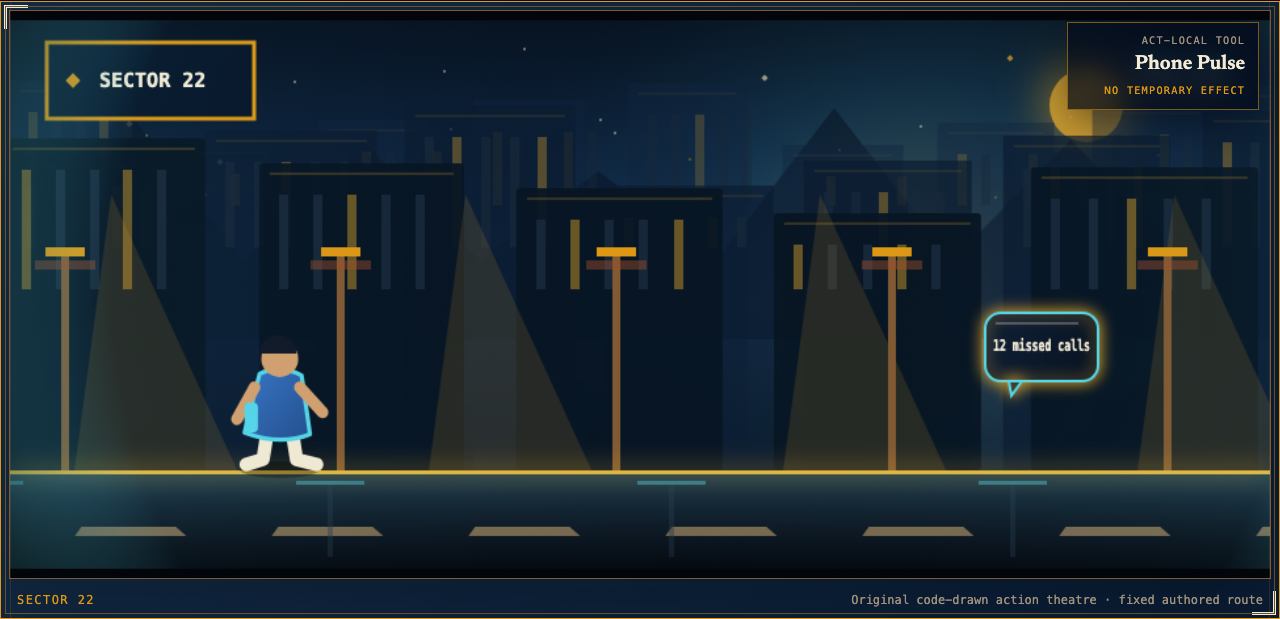
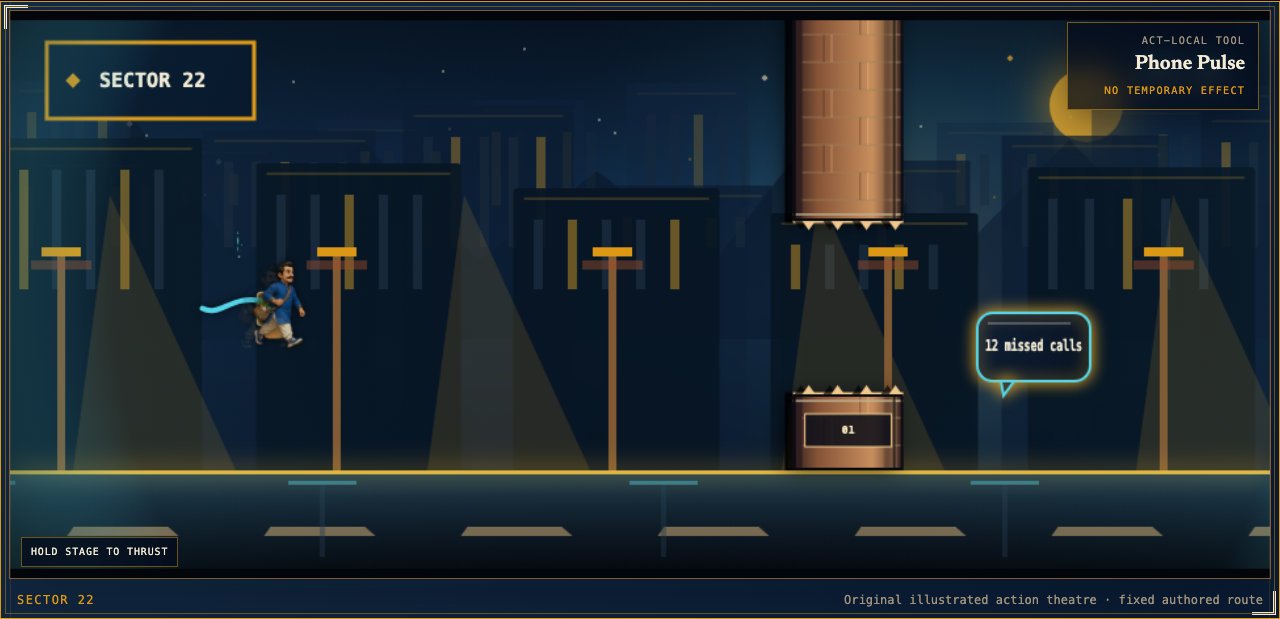
docs: synchronize the one-hit Sector Sprint

diff --git a/docs/testing/sector-sprint-game-feel.md b/docs/testing/sector-sprint-game-feel.md
@@ -1,25 +1,39 @@
-# Sector Sprint cinematic game-feel checkpoint
+# Sector Sprint one-hit jetpack checkpoint
 
-## Authored encounter matrix
+## Authored corridor matrix
 
-Every encounter is deterministic. Times are derived from fixed world positions on the 32-second Act path; pause, hide, and blur suspend the shared foreground clock. Temporary effects reset at each Act boundary and never enter local or session storage.
+All passage geometry is deterministic and shares the same logical `960 × 432` stage. The collision hull is `34 × 48` logical pixels and remains inset inside the illustrated lead. The opening face begins at world x 620, leaving more than 1.8 seconds of visible reaction after the 900 ms ignition hover. Pause, hide, and blur suspend the foreground-only table boundary.
 
-| Act | Authored encounter window | Movement showcase | Act-local tool and allowlisted target | Temporary-effect gate | Transformation and collision presentation | Narrated equivalent |
-| --- | --- | --- | --- | --- | --- | --- |
-| Ghar Wapsi | x 760–3420 · 6.0–26.8 s | Variable leap, air step, street dash, low vault | Phone Pulse · missed calls, lists, puddles | Phulkari Guard · x 1665 · 13.1 s | A focused reply flare resolves phone noise; Guard folds one collision into the road pattern; otherwise one cosmetic stumble | Lamps, movement line, Phone Pulse, Guard, and gate arrival are stated across three city beats |
-| Sabzi Command | x 690–3290 · 5.4–25.8 s | Low vault and close dash | Bargain Burst · price tags, produce baskets, lists | Chaa Overdrive · x 1610 · 12.6 s | A widening cone settles a group; Overdrive adds a third lane and piercing transformation; collision is one cosmetic recoil | Mandi entry, wide bargain action, and exact-change exit are stated |
-| Baraat Detour | x 720–3390 · 5.6–26.6 s | Air step above ribbon and aerial stomp | Dhaaga Arc · streamers, route bubbles | Monsoon Lift · x 1705 · 13.4 s | A piercing returning arc opens only loose abstractions and passes harmlessly around the celebration | Layered streamers, side lane, Lift, and no-contact passage are stated |
-| Monsoon Protocol | x 650–3340 · 5.1–26.2 s | Lifted air line and stomp landing | Umbrella Wave · puddles, lists, route bubbles | Phulkari Guard · x 2315 · 18.2 s | A rising arc transforms rain interference and can lift trajectory; collision/Guard behavior remains presentation-only | Lit rain sheets, wave transformations, and dry-side arrival are stated |
-| Roti Relay | x 690–3360 · 5.4–26.4 s | Duo dash and final three-lane action | Ghar Flare · all seven allowlisted inanimate kinds | Chaa Overdrive · x 1805 · 14.2 s | Three coordinated lanes become five under Overdrive; Gurpreet and Harjit are the source of the action and can never be targets | Mixed reminders, mother/son choreography, and the final pool of lamplight are stated |
+| Act | Passages | Gap | Approximate cadence | Architectural material | Lead |
+| --- | ---: | ---: | ---: | --- | --- |
+| Ghar Wapsi | 8 | 132 px · 2.75× hull height | 3.0 s | Carved sandstone | Gurpreet |
+| Sabzi Command | 9 | 128 px · 2.67× | 2.8 s | Market timber | Harjit |
+| Baraat Detour | 10 | 124 px · 2.58× | 2.6 s | Hammered brass | Gurpreet and Harjit |
+| Monsoon Protocol | 11 | 120 px · 2.50× | 2.4 s | Wet terrazzo | Gurpreet and Harjit |
+| Roti Relay | 12 | 116 px · 2.42× | 2.2 s | Phulkari inlay | Gurpreet and Harjit |
+
+Only the road, ceiling, and paired architectural faces are lethal. Targets, tools, pickups, and complications remain harmless and have a different silhouette. One contact creates one terminal in-memory Action state; it cannot retrigger, advance the Act, persist, or record a completion.
+
+Before ADR 0017, Action had no lethal clearance or passage cadence: no input completed every Act and contact tolerance was effectively unbounded. The new measurable envelope is 2.75× to 2.42× hull-height clearance, 3.0 to 2.2 seconds between passage decisions, bounded `-560/+760 px/s` vertical speed, and six passing 100 ms controller phases. This comparison establishes tighter authored flight, not human-equivalent difficulty to another game.
 
 ## Verified gates
 
-- `node --test tests/unit/sector-sprint.test.mjs` proves four distinct movement expressions plus contextual vault, five distinct tool grammars, three deterministic temporary effects, allowlisted target classes, presentation-only collisions, exact 32-second closure, and explicit effect budgets.
-- `npm run test:house` completes the five-Act action and narrated routes, inspects every Act at 375×812, verifies 320px and desktop layouts, touch targets, keyboard controls, pause/blur/hidden suspension, the 240-second boundary, compact active storage, reduced motion, audio closure, same-origin requests, and cold offline House navigation.
-- The House runtime gate proves that the prelude holds no active run, stored marker, or mounted Canvas before Action or Narrated is chosen; source tracing confirms that the Canvas loop and foreground clock begin only after that choice. The gate also proves that reduced motion begins directly on narration and that final-Act exit confirmation cannot complete or record the route in the background.
-- `npm run test:runner-feel` measures six samples each for Leap, Dash, and Tool from the input event to the first Canvas frame tagged with that action at 375×812 under 4× CPU throttling. It also measures 120 sustained frame intervals under that profile and at 1440×900. The gate requires action p95 below 150 ms, throttled frame p95 at or below 50 ms, and desktop frame p95 at or below 25 ms.
-- The 2026-08-04 post-prelude run measured p95 Leap 3.5 ms, Dash 3.3 ms, Tool 4.2 ms, throttled-phone frame interval 33.8 ms, and desktop frame interval 18.1 ms.
+- `node --test tests/unit/sector-sprint.test.mjs` proves one-hit idempotence, swept collision, harmless comic targets, deterministic passage inventory, gap and cadence tightening, gravity/thrust caps, opening reaction window, no-input and continuous-hold wipeouts, compact duo formation, retry duration with five full two-second catch-up reserves, and bounded rendering/tool budgets.
+- The unit controller evaluates input every 100 ms, clears all five Acts, and still clears with each of six decision-phase offsets. This is a deterministic passability and tolerance gate, not representative human difficulty evidence.
+- `npm run test:house` verifies the semantic recovery surface, first-focus behavior, touch targets, pointer cancellation, keyboard thrust, one status message, retry without a new run identifier, atomic late-retry rejection, optional-audio suspension, 200% reflow, 320/375/414/desktop presentation, rise/fall/impact captures, all five rendered materials, foreground-only recovery and transition timing, final-Act boundary priority, reload fail-closed behavior, narrated completion, compact storage, same-origin requests, and cold offline House navigation.
+- `npm run test:runner-feel` drives the actual corridor with a deterministic pulse controller under 4× CPU throttling, measures six pulse-to-render samples, and samples 120 dense-corridor frame intervals at 375×812 and 1440×900. Pulse p95 must remain below 150 ms, throttled-phone frame p95 at or below 50 ms, and desktop frame p95 at or below 25 ms.
+- The latest 2026-08-05 complete test-matrix rerun measured pulse-to-render p95 at 21.4 ms, throttled-phone frame p95 at 34.9 ms, and desktop frame p95 at 16.8 ms. All three clear the declared ceilings.
+- `npm run test:pwa` independently verifies the composed PWA path and offline cache behavior. The standalone House and composed PWA are not treated as the same surface.
+
+## Recovery and privacy contract
+
+- The 240-second boundary outranks collision or recovery input in the same frame.
+- Recovery idle time and retry time consume the existing foreground budget. Hiding, blurring, or pausing suspends it.
+- A full Act-I retry is enabled only while five Act durations, five transition delays, five full two-second catch-up allowances, and one millisecond of rounding tolerance remain. Eligibility is recomputed at activation, and the browser gate crosses that threshold before attempting a stale retry.
+- Narrated play continues from the current Act while the same boundary remains; copy states that the boundary may close before the curtain.
+- Failure reason, obstacle, elapsed time, input history, performance samples, and retry state are never written to local or session storage. Reload closes an active Sector Sprint without completion.
+- Runtime requests remain same-origin and static. There is no telemetry or human playtest logging in the shipped product.
 
 ## Evidence boundary
 
-The automated and rendered checks establish deterministic mechanics, technical responsiveness, bounded effects, layouts, and closure behavior in Chromium. They do not establish equivalent native Mobile Safari frame pacing, real-device assistive-technology meaning, cultural authenticity, an AAA production label, or representative adult enjoyment.
+The automated and rendered checks establish deterministic passability, technical responsiveness, fixed difficulty geometry, one-hit behavior, bounded recovery, layouts, and closure behavior in Chromium. They do not establish difficulty equivalent to Flappy Bird, universally realistic character motion, native Mobile Safari frame pacing, physical-device thermal behavior, real-device assistive-technology meaning, cultural authenticity, or representative adult enjoyment. Those claims require a declared comparative protocol and representative human evidence.

diff --git a/docs/PUBLIC-SURFACE-EVIDENCE.md b/docs/PUBLIC-SURFACE-EVIDENCE.md
@@ -1,23 +1,15 @@
 # Public-surface evidence ledger
 
-## Verified locally on 2026-08-04 — Grand Salon motion and recovery polish
+## Verified locally on 2026-08-05 — Sector Sprint one-hit jetpack gauntlet
 
-- All five Grand Salon tables now have a deterministic presentation signature: inlaid glyph choreography for Pattern Court, compass-ring turns for Mirror Forge, lift-and-settle discs for Stack Architect, a named light procession with a velvet cover for Lantern Ledger, and an explicit Action/Narrated route prelude for Sector Sprint. The refreshed House capture is rendered from the built source.
-- The new recovery flows are bounded and local. An unfinished first-four table reload offers Continue, Start over, or Exit; meaningful progress asks before a table is abandoned; Stack reset affects only the current tower; Lantern replay reveals the same fixed procession and disables answers until it is covered again. Chapter and Act transitions pause behind the exit confirmation, Keep playing resumes the held transition, Leave table records no completion, and cancel restores focus.
-- Sector Sprint creates no run, session marker, Canvas loop, or foreground boundary before a route is chosen. Action and Narrated retain the same five Acts, 32-second Act boundary, 240-second foreground-active table boundary, completion facts, compact storage whitelist, and reload-fail-closed rule. Reduced-motion visitors still enter the complete narrated route directly.
-- Motion is decorative and deterministic. Wrong-answer copy, live status, visible selection, semantic controls, and fixed game state provide the same information without animation or sound; reduced motion removes the four new game signatures and keeps Sector Sprint on narration. No new runtime asset, request, identifier, telemetry, score, streak, random reward, or Night Room state was added.
-- `npm run check` passes with zero Astro diagnostics, 78 unit tests, and the composed build. `npm run test:house`, `npm run test:runner-feel`, `npm run test:public`, `npm run test:pwa`, `npm run test:portrait`, and `npm run test:layered` pass across five-game completion, recovery, keyboard/focus, 320px-through-desktop rendering, root/base-path public surfaces, House cache `nindova-house-v6`, cold offline operation, Night standalone/PWA isolation, Rasoi layouts, and reduced motion.
-- The current Chromium game-feel gate at 375×812 under 4× CPU slowdown measured p95 Leap 3.5 ms, Dash 3.3 ms, Tool 4.2 ms, and frame interval 33.8 ms; desktop frame interval was 18.1 ms. Native Mobile Safari pacing, real-device assistive technology, physical-device battery/thermals, human cultural-authenticity review, and representative adult judgments of enjoyment or “coolness” remain unverified.
-
-## Verified locally on 2026-08-04 — Sector Sprint cinematic action overhaul
-
-- Sector Sprint now uses a layered, simulated-depth Canvas stage with Act-specific lighting, architecture, weather, vector figures, target staging, camera response, impact particles, and an updated 1280×619 source-rendered public capture. The scope is premium browser action presentation, not a claim of native AAA production parity.
-- The deterministic 240-second route keeps five ordered 32-second Acts and the original House closure boundary. Its action vocabulary now includes a buffered, variable-height leap with coyote time; one air step; a ground dash or contextual vault; an aerial stomp; five Act-local tools; and three deterministic temporary effects.
-- Tools are harmless and route-specific: Phone Pulse, Bargain Burst, Dhaaga Arc, Umbrella Wave, and Ghar Flare only affect their documented presentation targets. Collisions produce presentation-only stumbles, and Phulkari Guard converts one stumble into a flourish; neither changes world position, route time, input access, or Session outcome.
-- The runner still has no score, health, lives, streaks, countdown, missed-night language, random reward, fail state, collection, or persistent upgrade. All added pickups, tools, particles, camera effects, and audio are Act-local or Session-local; Narrated route remains a complete non-action equivalent and optional sound remains local Web Audio.
-- `npm run check` passes with 78 unit tests, zero Astro diagnostics, and the composed production build. `npm run test:house`, `npm run test:public`, and `npm run test:pwa` pass across the standalone House, composed PWA, responsive layouts, narration, keyboard/nonvisual route, offline closure, same-origin privacy, and Night isolation gates.
-- The dedicated Chromium game-feel gate passed at 375×812 under 4× CPU slowdown with six samples per action and 120 frame samples: p95 Leap 15.9 ms, Dash 3.3 ms, Tool 4.1 ms, and frame interval 33.5 ms. The 1440×900 desktop p95 frame interval was 18.5 ms. Enforced ceilings are 150 ms action response, 50 ms throttled-phone frame interval, and 25 ms desktop frame interval.
-- Desktop and 375×812 source-rendered checks cover all five Acts, the five-control layout, reduced motion, and the refreshed public capture. Native Mobile Safari, physical-device thermals/battery, real assistive-technology use, human cultural-authenticity review, and human judgments of fun, polish, or AAA parity remain unverified.
+- Sector Sprint keeps five ordered 32-second Acts and the foreground-only 240-second House boundary, but its Action route is now a deterministic jetpack gauntlet. A 900 ms ignition hover leads into constant gravity, bounded upward thrust, preserved glide inertia, and capped rise/fall speeds. One swept contact with the road, ceiling, or authored corridor face creates a neutral, non-persistent wipeout.
+- The five Acts contain 8, 9, 10, 11, and 12 paired passages. Clearances tighten from 132 to 116 CSS pixels and cadence tightens from 3.0 to 2.2 seconds. Sandstone, market timber, hammered brass, wet terrazzo, and phulkari inlay have distinct seams, hardware, lattice, chips, edge light, and depth treatment; the quiet render tier removes expensive texture and shadow without changing collision geometry.
+- Gurpreet, Harjit, and their compact duo formation share velocity pitch, bounded pose blending, rise/fall squash, scarf and bag lag, a visible flight rig, and a failure sputter. Reduced motion bypasses Action for the complete narrated route, so precision movement, Canvas animation, vision, and sound remain unnecessary for completion.
+- Recovery removes the underlying Action controls and moves keyboard focus to Retry when a provably complete five-Act attempt still fits, including five full two-second catch-up allowances, otherwise to Continue narrated. Retry reuses the same run and foreground boundary. The boundary remains active during failure and Act transitions, outranks final-Act completion, and records no Gallery completion when it closes. Failure, collision, input, timing, retry, and performance history are never persisted; optional audio is suspended before idle recovery.
+- The refreshed landing copy, README, public contract, accessibility page, testing page, roadmap, and 1280×619 built-source capture describe the one-hit corridor rather than the superseded non-failing leap/dash route. The earlier dated sections below remain historical delivery records, not current behavior.
+- `npm run check` passes with zero Astro diagnostics, 80 unit tests, and the composed production build. The complete `npm test` matrix passes across standalone House, root/base-path public pages, one-hit recovery, all five rendered materials, motion-state evidence, final-transition closure, narration, keyboard/focus, offline PWA, same-origin privacy, Night isolation, and the existing Night/Dawn gates.
+- The latest complete Chromium game-feel run at 375×812 under 4× CPU slowdown measured pulse-to-render p95 21.4 ms and dense-corridor frame p95 34.9 ms; the 1440×900 desktop frame p95 was 16.8 ms. Enforced ceilings remain 150 ms input response, 50 ms throttled-phone frame interval, and 25 ms desktop frame interval.
+- Automated geometry and controller evidence establishes a substantially tighter deterministic challenge, not Flappy Bird-equivalent difficulty. Native Mobile Safari pacing, physical-device thermals/battery, real assistive-technology use, human cultural-authenticity review, biomechanical realism, comparative human difficulty, and representative adult judgments of fun remain unverified.
 
 ## Verified locally on 2026-08-04 — House-first public-surface refresh
 

diff --git a/docs/adr/0017-make-sector-sprint-a-one-hit-jetpack-gauntlet.md b/docs/adr/0017-make-sector-sprint-a-one-hit-jetpack-gauntlet.md
@@ -1,0 +1,26 @@
+# Make Sector Sprint a one-hit jetpack gauntlet
+
+Sector Sprint keeps its fixed five authored Acts but changes the Action route from optional movement theatre into a deterministic one-hit jetpack gauntlet. The lead begins with a 900 ms ignition hover, then flies under constant gravity. Holding the stage or Pulse control applies bounded upward thrust; release preserves inertia and lets gravity pull the lead down. The simulation remains fixed at 60 Hz. Vertical speed is capped in both directions, and the same authored geometry is used at every render-quality tier.
+
+Each Act contains a fixed set of paired architectural faces. Passage count rises from eight to twelve, gap height tightens from 132 to 116 logical pixels, and cadence tightens from about 3.0 to 2.2 seconds. The forgiving `34 × 48` logical collision hull remains inset inside the illustrated lead. Swept collision checks the whole movement segment so a delayed frame cannot tunnel through a face. The earliest contact wins, with stable obstacle identifiers breaking exact ties. Road, ceiling, and the lit inner faces are the only lethal geometry; comic targets, tools, pickups, and complications are harmless choreography.
+
+One lethal contact creates an idempotent in-memory Action failure. It records one neutral reason, releases held input and optional audio, empties active tool objects, freezes Act/world/action time, and cannot create an Act completion or Gallery record. The presentation is a brief jetpack sputter and held curtain, not injury or death. There is no health, life count, checkpoint, score, timer, failure history, randomized retry, reward, or persisted failure state.
+
+The recovery surface offers three semantic choices. A full Action retry begins at Act I inside the same table and run identifier and never resets the 240-second foreground boundary. Retry eligibility is recomputed when activated and requires the five nominal Act durations, all five authored transitions, the engine's full two-second catch-up allowance for every Act, and one additional millisecond of rounding tolerance. If too little foreground time remains, the retry is disabled with calm non-timer copy. Narrated play may continue from the current Act while the same boundary remains; the copy states that the boundary may close before its final curtain. The Grand Salon exit records nothing. Idle recovery and Act-transition time consume the foreground boundary, while pause, hide, blur, and exit confirmation continue to suspend it. The 240-second closure is checked before Action physics and remains armed through transitions, so it outranks collision, recovery input, or final completion at the boundary.
+
+Architectural faces share an unmistakable illuminated edge and notch silhouette across sandstone, market timber, hammered brass, wet terrazzo, and phulkari-inlay treatments. Texture density adapts without altering geometry. The project-owned Gurpreet and Harjit sheet is drawn at a scale aligned with the collision hull, with bounded velocity pitch, pose blending, restrained squash/stretch, scarf or bag lag, and a visible jetpack plume. Duo Acts place both riders in one compact family-craft formation around the same forgiving collision hull instead of drawing a second exposed rider outside it. Reduced motion removes pitch, lag, drift, and nonessential effects; the complete narrated route remains available without motion, precision, sight, or sound.
+
+This decision deliberately supersedes the following narrower clauses:
+
+| Earlier source | Superseded clause | Replacement |
+| --- | --- | --- |
+| ADR 0015 | Action input is optional and cannot affect success | Action flight requires clearing deterministic geometry; Narrated remains the complete no-precision route |
+| ADR 0015 | Player collisions are presentation-only and Phulkari Guard absorbs one | Only architectural faces, road, and ceiling end Action once; comic objects never collide with the player |
+| ADR 0015 | Sector Sprint has no failure loop | One bounded, non-persistent Action wipeout and recovery choice exists; there are still no lives, health, scores, checkpoints, rewards, or endless retries |
+| ADR 0016 | Held thrust is absorbed by a safe ceiling and input changes choreography only | Ceiling contact is lethal; pulse timing controls Action traversal |
+| ADR 0016 | This decision adds no failure | The idempotent Action failure defined here is allowed |
+| `CONTEXT.md` and prior UI/tests | No input completes Action and every action is optional | No input and continuous hold both wipe Action; Narrated preserves no-precision completion |
+
+Everything else in ADR 0015 and ADR 0016 remains in force: five fixed 32-second Acts, the 240-second foreground-only table boundary, deterministic authored order, original nonhuman target allowlist, local static runtime, zero telemetry, compact active storage, reload fail-closed behavior, bounded Canvas/audio budgets, same-origin requests, and the Night Room Two-Loop Law.
+
+Automated controller traces establish deterministic passability and 100 ms decision-phase tolerance; they do not establish human difficulty equivalent to another game. Shipped copy therefore describes a tight one-hit jetpack gauntlet, not “Flappy Bird-hard” or universally realistic. Comparative difficulty requires a declared matched human benchmark and representative play evidence.

diff --git a/apps/site/src/content/docs/docs/accessibility.md b/apps/site/src/content/docs/docs/accessibility.md
@@ -5,7 +5,7 @@ description: Native Salon and Night controls, text labels, focus-preserving keyb
 
 Grand Salon and Rasoi Pairs use native HTML controls for every required action. Salon rerenders deliberately restore logical focus after an answer, Lantern cover, Stack move, Sector Sprint story beat, chapter transition, and curtain call. Stack plinths announce the ordered discs and current top disc; visible geometry is not the only state source.
 
-Sector Sprint's Canvas route advances automatically and exposes native Leap/Air step, Dash/Stomp, Act tool, Pause, and Narrated route controls. The one-button movement grammar includes input buffering, coyote time, a generous held-height window, one air step, contextual low vault, and aerial stomp; none is required to complete the route. Collisions create one presentation-only response and never change logical position, velocity, input access, route timing, completion, or progress. A large external next-interference cue, nonnumeric action-status labels, and the live region report Canvas information in text without announcing every frame. Reduced motion starts directly in the rewritten complete three-beat-per-Act text route, which reaches the same deterministic curtain call and requires no timed response, precision, sound, animation, or visual interpretation; speech and sound never autoplay. Pause holds active time for either route while narrated beat controls remain available and Pause persists between narrated Acts; paused narration does not play the optional chime. An unfinished route that reaches the absolute boundary or reloads without its in-memory clock closes without claiming completion.
+Sector Sprint's Canvas Action route advances automatically and exposes native Pulse, Glide, Act tool, Pause, and Narrated route controls. Holding Pulse applies bounded upward thrust; releasing preserves inertia while gravity pulls the shared collision hull down. One road, ceiling, or architectural contact ends that Action attempt and moves focus to Retry when a complete attempt still fits, otherwise to Continue narrated. Underlying Canvas controls are removed during recovery, and no failure history is stored. A large external next-interference cue, nonnumeric action-status labels, and the live region report Canvas information in text without announcing every frame. Reduced motion starts directly in the complete three-beat-per-Act text route, which reaches the same deterministic curtain call and requires no timed response, precision, sound, animation, or visual interpretation; speech and sound never autoplay. Pause holds active time for either route while narrated beat controls remain available and Pause persists between narrated Acts; paused narration does not play the optional chime. An unfinished route that reaches the absolute boundary, including during an Act transition or recovery choice, or reloads without its in-memory clock closes without claiming completion.
 
 The Salon's visual Pattern and Mirror tasks are entertainment, not equivalent cognitive measurements. Text alternatives preserve operation and state, but no claim is made that an altered presentation measures the same construct.
 

diff --git a/apps/site/src/content/docs/docs/testing.md b/apps/site/src/content/docs/docs/testing.md
@@ -12,8 +12,8 @@ Nindova distinguishes three evidence levels:
 ## Gates
 
 - `test:unit` proves motif and layer counts for both profiles, covered/open-side behavior, Deeper's three-step decoy/search proxy, deterministic recipes, exhaustive 382-state Gentle and 510-state Deeper solvability, contrast and brand-asset rules, recipe-two completion preservation, state sanitization/migration, captured-zone Dawn boundaries, and export utilities.
-- `test:house` completes every chapter or Act of all five Salon games through production controls; checks Sector Sprint action auto-advance and full closure, exact whole-table boundary without false completion, 239-second reload fail-closed behavior, blur/hidden/pause suspension during Acts and transitions, paused-narration completion without chime, five Act-local tools, variable movement controls, global pointer cancellation, narrated and reduced-motion routes, compact active storage, 320px/desktop runner rendering, keyboard/focus and nonvisual Stack state, adult-boundary behavior, result replacement, corrupt recovery, Gallery clearing, responsive layouts, same-origin requests, direct Night isolation, and a cold offline navigation after clearing the HTTP cache.
-- `test:runner-feel` measures Leap, Dash, and Tool input-to-first-action-frame latency at 375×812 under 4× CPU throttling and sustained frame pacing under that phone profile and at 1440×900.
+- `test:house` completes every chapter or Act of all five Salon games through production controls; checks Sector Sprint pulse/glide input, deterministic one-contact recovery, conservative same-boundary retry, exact whole-table closure during failure and final-Act transition, reload fail-closed behavior, blur/hidden/pause suspension, optional-audio release, all five rendered corridor materials, rise/fall/impact evidence, the narrated and reduced-motion routes, compact active storage, 320px/desktop rendering, keyboard/focus and nonvisual Stack state, adult-boundary behavior, result replacement, corrupt recovery, Gallery clearing, responsive layouts, same-origin requests, direct Night isolation, and cold offline navigation.
+- `test:runner-feel` drives the live sandstone corridor with a deterministic pulse controller, measures six pulse-to-first-render samples at 375×812 under 4× CPU throttling, and samples 120 sustained frame intervals under that phone profile and at 1440×900.
 - Assessment-readiness unit coverage proves unsupported evidence leaves gates unmet, entertainment results are ineligible, and even a complete evidence fixture cannot authorize research collection or public cognitive output.
 - `test:public` covers the landing page and visual-identity docs at 320, 375, 414, 768, and 1440px, real image loading, 44px calls to action, 200% zoom, reduced motion, and horizontal overflow.
 - `test:arc` removes all 18 pairs through `window.__ct`, asserts `intake → play → settling → end`, immutable copy, local completion, screenshots, and zero browser errors.

diff --git a/apps/site/src/content/docs/docs/product-contract.md b/apps/site/src/content/docs/docs/product-contract.md
@@ -15,7 +15,7 @@ Anything that makes tonight harder to leave is a bug.
 
 - Five games, each with five authored chapters or Acts and a deterministic curtain call.
 - Chapter position is allowed inside the chosen entertainment game. There is no leaderboard, streak, randomized reward, social comparison, or attention-pressure language.
-- Sector Sprint is a fixed-route action table, not an endless runner. Automatic forward motion, variable leaps, air step, dash/vault/stomp movement, five Act-local harmless tools, and deterministic temporary effects cannot create a score, high score, timer, health, lives, failure, progress loss, randomized reward, persistent inventory, or claimed sleep effect. People, animals, vehicles, and buildings can never be targets. Its complete narrated route has the same entertainment provenance and curtain call. If the whole-table boundary arrives before every Act closes, the table exits without creating a Gallery completion.
+- Sector Sprint is a fixed-route jetpack table, not an endless runner. Its Action route uses automatic forward motion, bounded pulse-and-glide physics, five deterministic architectural corridors, five Act-local harmless tools, and one neutral wipeout when the shared collision hull touches the road, ceiling, or corridor face. A wipeout stores no failure history and creates no score, high score, visible timer, health, lives, checkpoint, progress reward, randomized reward, persistent inventory, or claimed sleep effect. People, animals, vehicles, and buildings can never be targets. Retry uses the same foreground-only table boundary; the complete narrated route has the same entertainment provenance and curtain call. If the boundary arrives before every Act closes, it outranks transition or recovery input and exits without a Gallery completion.
 - Completion is recorded only as a versioned entertainment result. The Gallery keeps at most one replaceable result per game.
 - Entertainment play does not produce an assessment result or infer a cognitive trait.
 - The House has no account, analytics, advertising, app telemetry, app-controlled remote logging, or third-party runtime request.

diff --git a/docs/BUILD-PLAN.md b/docs/BUILD-PLAN.md
@@ -1,6 +1,6 @@
 # Nindova Build Plan
 
-**Status:** Historical browser-first baseline, completed. The experience-specific arc is superseded by [ADR 0010](./adr/0010-replace-the-vista-arc-with-rasoi-pairs.md) and the [Rasoi Pairs redesign plan](./REDESIGN-PLAN.md). [ADR 0013](./adr/0013-add-the-adult-nindova-house.md) adds the adult entertainment House while preserving and regression-testing the Night Room's two immutable core lines, privacy boundary, accessibility floor, Two-Loop Law, and fifteen-minute maximum; adult-audience framing is appended. [ADR 0014](./adr/0014-add-a-fail-closed-assessment-readiness-contract.md) adds source-only validation gates without authorizing data collection or a public assessment result. [ADR 0016](./adr/0016-deepen-sector-sprint-flight-and-illustration.md) deepens the bounded Sector Sprint table with one-pointer flight, original illustrated leads, deterministic complications, and adaptive Canvas quality without changing its fixed five-Act route.
+**Status:** Historical browser-first baseline, completed. The experience-specific arc is superseded by [ADR 0010](./adr/0010-replace-the-vista-arc-with-rasoi-pairs.md) and the [Rasoi Pairs redesign plan](./REDESIGN-PLAN.md). [ADR 0013](./adr/0013-add-the-adult-nindova-house.md) adds the adult entertainment House while preserving and regression-testing the Night Room's two immutable core lines, privacy boundary, accessibility floor, Two-Loop Law, and fifteen-minute maximum; adult-audience framing is appended. [ADR 0014](./adr/0014-add-a-fail-closed-assessment-readiness-contract.md) adds source-only validation gates without authorizing data collection or a public assessment result. [ADR 0017](./adr/0017-make-sector-sprint-a-one-hit-jetpack-gauntlet.md) supersedes the optional-action and cosmetic-collision clauses of ADRs 0015 and 0016 with a deterministic one-hit jetpack gauntlet while preserving the fixed five-Act route, narrated alternative, foreground boundary, privacy, and Night Room contract.
 
 ## Delivery boundary
 

diff --git a/docs/adr/0015-add-the-bounded-sector-sprint.md b/docs/adr/0015-add-the-bounded-sector-sprint.md
@@ -1,5 +1,7 @@
 # Add the bounded Sector Sprint table
 
+> **Status:** Partially superseded by [ADR 0017](./0017-make-sector-sprint-a-one-hit-jetpack-gauntlet.md) for Action input, collision, and recovery behavior. The five-Act, timing, privacy, accessibility, rendering-budget, and Night Room boundaries remain in force.
+
 Sector Sprint is the fifth Grand Salon table: an original, code-drawn side-scrolling Chandigarh action comedy for adults, led by Gurpreet and his mother Harjit. It combines automatic forward motion with optional variable-height leaps, one air step, dash, contextual vault, aerial stomp, five Act-local harmless tools, three deterministic temporary effects, escalating authored scenes, Punjabi-family wit, and a five-Act city journey while rejecting an endless route, score, high score, health, lives, failure loop, randomized loot, persistent inventory, and fatigue-to-sleep framing.
 
 The action route has five fixed Acts: Ghar Wapsi, Sabzi Command, Baraat Detour, Monsoon Protocol, and Roti Relay. Each Act advances for exactly 32 seconds of foreground-active engine time, then moves through its own deterministic House praise. The engine and whole-table clock consume the same bounded frame delta, so a long main-thread stall cannot charge unseen Act time. Optional object density rises from five in the opening lane to nine in the home lane; the later Acts add original mandi, baraat, monsoon, and ghar scenery without introducing failure. The whole table also has a 240-second foreground-active boundary. Reaching that boundary before all five Acts closes the table without storing or displaying a completion. Pausing, hiding, or blurring suspends Acts and inter-Act transitions and resets the animation timestamp so background time cannot be charged on return.

diff --git a/CONTEXT.md b/CONTEXT.md
@@ -16,8 +16,8 @@ _Avoid_: test center, leaderboard, daily challenge
 
 **Sector Sprint**
 
-The original, fixed five-Act Chandigarh route in the Grand Salon, led by Gurpreet and his mother Harjit. The street advances on its own; one-pointer hold-to-lift and release-to-glide movement, optional keyboard dash/vault/stomp expression, five Act-local harmless tools, three deterministic temporary effects, and one brief authored comic complication per Act change choreography around inanimate abstractions, while collisions only create presentation feedback. Every route closes, and the complete narrated route requires no timed response, sound, sight, or precision. Reaching the absolute boundary before all five Acts closes the table without recording a completion.
-_Avoid_: endless runner, shooter, score attack, Contra clone, sleep inducer
+The original, fixed five-Act Chandigarh route in the Grand Salon, led by Gurpreet and his mother Harjit. After a brief ignition hover, one-pointer pulse thrust and release-driven inertia carry the lead through deterministic paired architectural faces. One touch on a lit face, road, or ceiling wipes the Action attempt; comic targets, tools, pickups, and complications remain harmless choreography. Recovery may retry Act I only inside the same remaining table boundary, continue Narrated from the current Act, or return to the Salon. Failure, timing, and input history never persist. The complete Narrated route requires no timed response, sound, sight, or precision, and the absolute foreground boundary still closes the table without recording an unfinished completion.
+_Avoid_: endless runner, shooter, score attack, lives, health, Flappy Bird clone, sleep inducer
 
 **Gallery**
 

diff --git a/docs/adr/0016-deepen-sector-sprint-flight-and-illustration.md b/docs/adr/0016-deepen-sector-sprint-flight-and-illustration.md
@@ -1,5 +1,7 @@
 # Deepen Sector Sprint flight and illustration
 
+> **Status:** Partially superseded by [ADR 0017](./0017-make-sector-sprint-a-one-hit-jetpack-gauntlet.md) for ceiling, thrust-success, and failure behavior. The fixed-step engine, original illustration, adaptive-quality, privacy, audio, and narrated-route boundaries remain in force.
+
 Sector Sprint keeps its fixed five-Act, self-closing entertainment route and deepens the moment-to-moment play as an original thrust-and-glide action comedy. A single pointer held anywhere on the stage or on the Lift control raises the lead; release settles the lead into a glide. The Act tool stays a separate large control. Keyboard Lift/Glide, Dash/Vault/Stomp, and Act-tool expression remains available on Mac without becoming necessary for completion. Pointer cancellation, orientation changes, blur, pause, and route exit all release held thrust. The complete narrated route remains the non-gesture completion path.
 
 The engine advances at a fixed 60 Hz simulation step behind a foreground-active accumulator. A frame can catch up through at most the same two-second active-time cap consumed by the House session clock; longer background or main-thread gaps cannot charge unseen progress. An authored ceiling keeps a continuous hold within the visible flight lane and absorbs upward velocity rather than banking a hidden launch. The five Acts still last exactly 32 active seconds each and retain the 240-second whole-table boundary. Input changes choreography only: automatic forward travel, Act order, access, closure, Gallery provenance, and timing never depend on dexterity.

diff --git a/apps/site/src/content/docs/docs/roadmap.md b/apps/site/src/content/docs/docs/roadmap.md
@@ -7,7 +7,7 @@ description: What exists in the current source and what remains deliberately unc
 
 - Nindova House for adults 18 and over, with a spatial Grand Salon and separate Night Room.
 - Pattern Court, Mirror Forge, Stack Architect, and Lantern Ledger, each with five authored entertainment chapters and deterministic celebration.
-- Sector Sprint, an original cinematic code-drawn Chandigarh route led by Gurpreet and Harjit, with five fixed Acts, smooth vector figures, layered city depth, automatic forward motion, variable leap/air-step/dash/vault/stomp movement, five mechanically distinct Act-local harmless tools, three deterministic temporary effects, a complete narrated route, no score or failure state, an honest no-completion safety exit, and a deterministic curtain call.
+- Sector Sprint, an original code-drawn Chandigarh jetpack route led by Gurpreet and Harjit, with five fixed Acts, expressive illustrated riders, layered city depth, automatic forward motion, bounded pulse-and-glide inertia, five tightening material corridors, one neutral non-persistent Action wipeout, five Act-local harmless tools, a complete narrated route, no score/lives/checkpoints, an honest no-completion boundary exit, and a deterministic curtain call.
 - Versioned `mode: "entertainment"` completion provenance, one replaceable local result per game, strict active-state recovery, and a visible Gallery clear action.
 - Independently scoped House and Night PWAs with cold-offline and base-path browser evidence.
 

diff --git a/README.md b/README.md
@@ -46,7 +46,7 @@ Each table has five fixed chapters or Acts and a designed curtain call. You repl
 - **Mirror Forge** — turn forms without losing their bearing.
 - **Stack Architect** — move a tower by law, one disc at a time.
 - **Lantern Ledger** — hold an ordered procession of light.
-- **Sector Sprint** — follow Gurpreet and Harjit through five cinematic Chandigarh Acts with variable leaps, air step, dash/vault/stomp movement, five Act-local harmless tools, three deterministic temporary effects, or a complete narrated route.
+- **Sector Sprint** — steer Gurpreet and Harjit through five tightening Chandigarh jetpack corridors. One road, ceiling, or architectural contact wipes the Action route; textured authored obstacles, harmless Act tools, and a complete narrated route keep the challenge bounded and accessible.
 
 The Salon has no public ranking, streak, randomized prize, social comparison, or assessment result. The local Gallery may keep only the latest completion fact for each game, and you can clear it from the interface.
 
